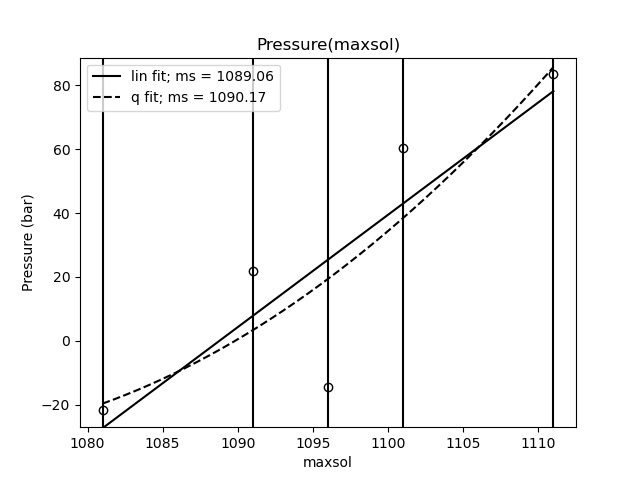
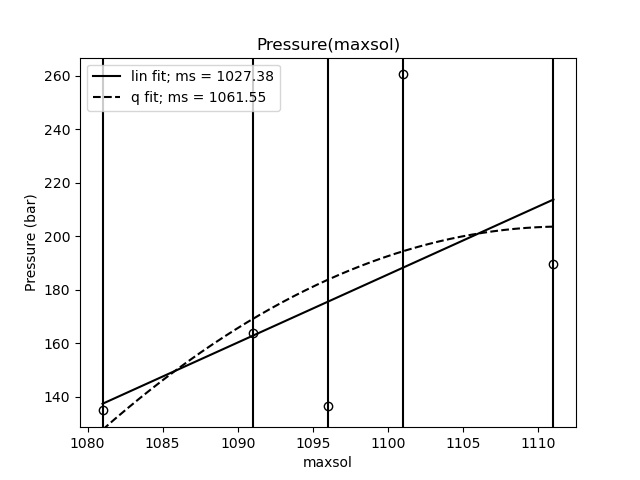
update for desmos. no srun for desmos

diff --git a/src/exe/stats.py b/src/exe/stats.py
@@ -26,11 +26,13 @@ pressure_feat_str = 'P'
 modes_flag = '-mode'
 features_flag = '-feat'
 output_dir_flag = '-dir'
+stab_time_flag = '-stab_time'
 maxsol_prefix = 'maxsol'
 all_modes = [process_mode, draw_mode, save_mode, short_mode]
 all_features = [temperature_feat_str, pressure_feat_str]
 energy_features_ids = {temperature_feat_str : '15',
                        pressure_feat_str    : '17'}
+stab_time_default = 1000
 
 # ========= path-independent defines =========
 def y_range(y, margin=0.05):
@@ -39,10 +41,14 @@ def y_range(y, margin=0.05):
     r = mx - mn
     return (mn - r * margin, mx + r * margin)
 
-def print_usage_and_exit(str='', exe_name=sys.argv[0], code=1):
-    print('usage:\n' + exe_name + '   ' + output_dir_flag + ' output_dir   [' + modes_flag + '    (' + '/'.join(all_modes) + ')]   [' + features_flag + '   (' + '/'.join(all_features) + ')]')
-    if(str != ''):
-        print(str)
+def print_usage_and_exit(custom_str='', exe_name=sys.argv[0], code=1):
+    print('usage:\n' + exe_name + '   ' + \
+                       output_dir_flag + ' output_dir   ' + \
+                 '[' + modes_flag + '    (' + '/'.join(all_modes) + ')]   ' + \
+                 '[' + features_flag + '   (' + '/'.join(all_features) + ')]   ' + \
+                 '[' + stab_time_flag + '   stab_time (' + str(stab_time_default) + ')]')
+    if(custom_str != ''):
+        print(custom_str)
     exit(code)
 
 # ========= path-dependent defines =========
@@ -84,6 +90,7 @@ def process_model(model_path, trajectory, cut_time, xvgres_path=default_output_d
             plot_title = '$t_{cut} = ' + my.f2str(cut_time) + '$; ' + field + ' = $' +  my.f2str(mean_val) + '\pm' + my.f2str(val_std) + '$'
             fig, ax = my.get_fig('time (ps)', field, title=plot_title)
             xvg_file.plot(maxpoints=None, columns=[0, i+1])
+            ax.plot(np.array([1, 1]) * cut_time, [min(data[i]), max(data[i])], color='red')
             
             if(save_mode in modes):
                 pic_path = os.path.join(xvgres_path, base_filename + '_' + field + '.jpg')
@@ -100,26 +107,19 @@ argc = len(args)
 if(argc < 6):
     print_usage_and_exit()
 
-[output_dir, modes, features], correct_input = \
+[output_dir, modes, features, stab_time], correct_input = \
     my.parse_args(args, \
-                  [output_dir_flag, modes_flag, features_flag], \
-                  possible_values=[None, all_modes, all_features], \
-                  possible_arg_numbers=[[1], ['+'], [1, 2]])
+                  [output_dir_flag, modes_flag, features_flag, stab_time_flag], \
+                  possible_values=[None, all_modes, all_features, None], \
+                  possible_arg_numbers=[[1], ['+'], [1, 2], [0, 1]])
 features.sort(key = lambda f: int(energy_features_ids[f]))
-
-#if(not correct_input[0]):
-#    print_usage_and_exit(str='output dir "' + str(output_dir) + '" is invalid')
-#if(not correct_input[1]):
-#    print_usage_and_exit(str='mode "' + str(modes) + '" is invalid')
-#if(not correct_input[2]):
-#    print_usage_and_exit(str='feaute "' + str(features) + '" is invalid')
+stab_time = int(stab_time[0]) if len(stab_time) > 0 else stab_time_default
 
 model_res_path = os.path.join(res_path, output_dir)
 model_path = os.path.join(run_path, output_dir)
 
 # ========== process ===========
 target_pressure = 1
-stab_time = 350  # ps
 maxsol = [1024, 1088, 1152, 1216, 1274]
 #maxsol = [1024, 1274]
 maxsol = [1053, 1054, 1055, 1056]
@@ -180,9 +180,8 @@ if((draw_mode in modes) or (save_mode in modes)):
         print('"' + pic_path + '" saved')
         maxsol_filename = os.path.join(res_path, os.path.dirname(output_dir) + '_' + str(stab_time) + '.txt')
         with open(maxsol_filename, 'a') as outfile:
+            print(target_maxsol1, file=outfile, end=' ')
             print(maxsol_filename, 'appended')
-            #print(my.f2str(target_maxsol1, 4), file=outfile, end=', ')
-            print(target_maxsol1, file=outfile, end=', ')
 
     if(draw_mode in modes):
         plt.show()

diff --git a/src/exe/run_cycle.py b/src/exe/run_cycle.py
@@ -22,15 +22,35 @@ args = sys.argv[1:]
 #    run_it("screen -d -m -S " + run_str + " bash -c 'python " + run_str + "'", shell=True)
 
 # ================ extract  maxsol_0 for the matlab plotting ===============
-if(not len(args) in [1]):
-    print('usage:\n' + sys.argv[0] + '   job_dir')
+#if(not len(args) in [1, 2]):
+#    print('usage:\n' + sys.argv[0] + '   job_dir   [stab_time(1000)]')
+#    exit(1)
+#job_name = args[0]
+#stab_time = 1000 if(len(args) < 2) else float(args[1])
+#
+#t_arr = [1, 10, 15, 20, 25, 30, 35, 40]
+#txt_datafile_path = os.path.join(res_path, job_name + '_' + str(350) + '.txt')
+#if(os.path.isfile(txt_datafile_path)):
+#    os.remove(txt_datafile_path)
+#for t in t_arr:
+#    run_it('python stats.py -dir ' + os.path.join(job_name, 't' + str(t)) + ' -mode short save -feat P -stab_time ' + str(stab_time), shell=True)
+
+# ================ post proc all ===============
+if(not len(args) in [0]):
+    print('usage:\n' + sys.argv[0])
     exit(1)
 
+job_names = ['job111', 'job112', 'job113']
+stab_times = [200, 400, 600, 800, 1000]
 t_arr = [1, 10, 15, 20, 25, 30, 35, 40]
-#t_arr = [1]
-job_name = args[0]
-txt_datafile_path = os.path.join(res_path, job_name + '.txt')
-if(os.path.isfile(txt_datafile_path)):
-    os.remove(txt_datafile_path)
-for t in t_arr:
-    run_it('python stats.py -dir ' + os.path.join(job_name, 't' + str(t)) + ' -mode short save -feat P', shell=True)
+
+#job_names = ['job111', 'job112']
+#stab_times = [600, 800]
+
+for job_name in job_names:
+    for stab_time in stab_times:
+        txt_datafile_path = os.path.join(res_path, job_name + '_' + str(stab_time) + '.txt')
+        if(os.path.isfile(txt_datafile_path)):
+            os.remove(txt_datafile_path)
+        for t in t_arr:
+            run_it('python stats.py -dir ' + os.path.join(job_name, 't' + str(t)) + ' -mode short save -feat P -stab_time ' + str(stab_time), shell=True)
